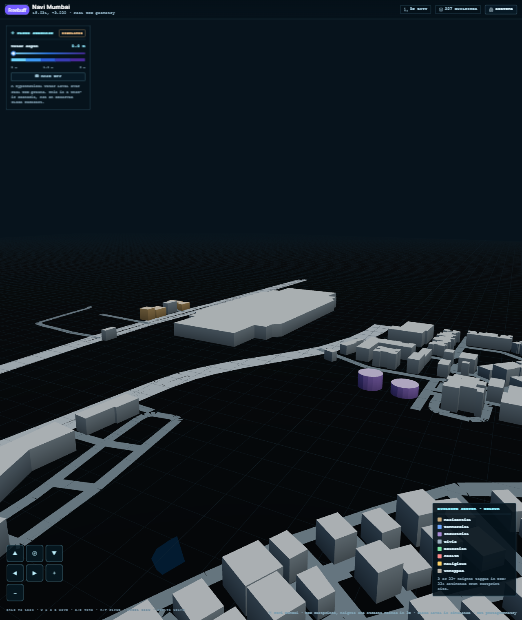
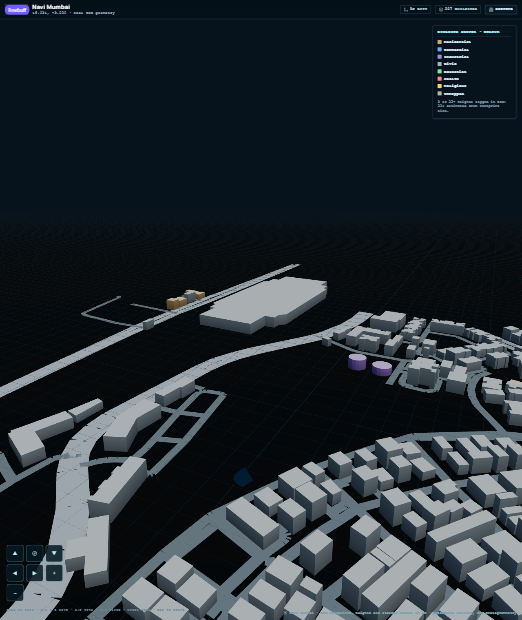
Remove the city flood scenario
The simulated flood depth and rain overlays are gone from the city page, and
its docs and savings shot are updated to match.

🤖 Generated with Codebuff

Changed region(s): [[0.0, 0.429, 1.0, 1.0], [0.0, 0.0306, 0.1839, 0.1839], [0.8276, 0.0613, 0.9502, 0.1839]]

diff --git a/frontend/src/CityScene.tsx b/frontend/src/CityScene.tsx
@@ -1,17 +1,15 @@
 import { useEffect, useRef } from 'react'
 import * as THREE from 'three'
 import type { CityModel } from './citymodel'
-import { SECTOR_COLOURS, floodColour, hashUnit, taggedHeight } from './citymodel'
+import { SECTOR_COLOURS, hashUnit, taggedHeight } from './citymodel'
 
 export type CityControls = { forward: number; strafe: number; turn: number; lift: number }
-export type CityEnv = { depth: number; rain: boolean }
 
 export type BuildingInfo = { name: string | null; height: number; estimated: boolean; sector: string }
 
 type Props = {
   model: CityModel
   controls: React.RefObject<CityControls>
-  env: React.RefObject<CityEnv>
   onReady: () => void
   onPick: (info: BuildingInfo | null, x: number, y: number) => void
 }
@@ -34,7 +32,7 @@ type Meta = BuildingInfo
  * roofs, street ribbons, water and a ground plane. No map tiles are involved,
  * so the satellite view can be hidden once this is ready.
  */
-export default function CityScene({ model, controls, env, onReady, onPick }: Props) {
+export default function CityScene({ model, controls, onReady, onPick }: Props) {
   const host = useRef<HTMLDivElement | null>(null)
   const pickRef = useRef(onPick)
   pickRef.current = onPick
@@ -222,40 +220,6 @@ export default function CityScene({ model, controls, env, onReady, onPick }: Pro
     grid.material.transparent = true
     scene.add(grid)
 
-    // Flood scenario water: a translucent sheet the whole city sits in, the
-    // depth ramp borrowed from Augma's flood maps. This is a scenario level,
-    // never a measured water height.
-    const floodMaterial = new THREE.MeshStandardMaterial({
-      color: floodColour(0.3),
-      transparent: true,
-      opacity: 0.52,
-      roughness: 0.12,
-      metalness: 0.25,
-      side: THREE.DoubleSide,
-    })
-    const flood = new THREE.Mesh(new THREE.PlaneGeometry(4200, 4200), floodMaterial)
-    flood.rotation.x = -Math.PI / 2
-    flood.position.y = -2
-    flood.visible = false
-    scene.add(flood)
-
-    // Rain: a point cloud that follows the camera, wrapping inside a 300 m box.
-    const RAIN_COUNT = 2400
-    const RAIN_BOX = 300
-    const rainPositions = new Float32Array(RAIN_COUNT * 3)
-    for (let index = 0; index < RAIN_COUNT; index += 1) {
-      rainPositions[index * 3] = (Math.random() - 0.5) * RAIN_BOX * 2
-      rainPositions[index * 3 + 1] = Math.random() * 260
-      rainPositions[index * 3 + 2] = (Math.random() - 0.5) * RAIN_BOX * 2
-    }
-    const rainGeometry = new THREE.BufferGeometry()
-    rainGeometry.setAttribute('position', new THREE.BufferAttribute(rainPositions, 3))
-    const rainMaterial = new THREE.PointsMaterial({
-      color: '#bfe9ff', size: 1.8, sizeAttenuation: false, transparent: true, opacity: 0.45,
-    })
-    const rain = new THREE.Points(rainGeometry, rainMaterial)
-    rain.visible = false
-    scene.add(rain)
 
     // --- free-fly camera --------------------------------------------------
     let yaw = Math.PI * 0.12
@@ -363,28 +327,6 @@ export default function CityScene({ model, controls, env, onReady, onPick }: Pro
       }
       if (state.lift) eye.y = Math.max(4, eye.y + state.lift * 55 * delta)
       applyCamera()
-
-      const weather = env.current ?? { depth: 0, rain: false }
-      flood.visible = weather.depth > 0.02
-      if (flood.visible) {
-        flood.position.y = weather.depth
-        floodMaterial.color.set(floodColour(weather.depth))
-      }
-      rain.visible = weather.rain
-      if (weather.rain) {
-        const attribute = rainGeometry.getAttribute('position') as THREE.BufferAttribute
-        const array = attribute.array as Float32Array
-        for (let index = 0; index < RAIN_COUNT; index += 1) {
-          array[index * 3 + 1] -= 95 * delta
-          if (array[index * 3 + 1] < weather.depth) {
-            array[index * 3] = (Math.random() - 0.5) * RAIN_BOX * 2
-            array[index * 3 + 1] = 200 + Math.random() * 70
-            array[index * 3 + 2] = (Math.random() - 0.5) * RAIN_BOX * 2
-          }
-        }
-        attribute.needsUpdate = true
-        rain.position.set(eye.x, 0, eye.z)
-      }
       renderer.render(scene, camera)
       if (!announced) {
         announced = true
@@ -403,10 +345,6 @@ export default function CityScene({ model, controls, env, onReady, onPick }: Pro
       canvas.removeEventListener('click', onClick)
       geometry.dispose()
       material.dispose()
-      flood.geometry.dispose()
-      floodMaterial.dispose()
-      rainGeometry.dispose()
-      rainMaterial.dispose()
       ground.geometry.dispose()
       ground.material.dispose()
       grid.geometry.dispose()
@@ -415,7 +353,7 @@ export default function CityScene({ model, controls, env, onReady, onPick }: Pro
       if (canvas.parentElement === element) element.removeChild(canvas)
     }
     // eslint-disable-next-line react-hooks/exhaustive-deps
-  }, [model, controls, env])
+  }, [model, controls])
 
   return <div className="city-scene" ref={host} />
 }

diff --git a/frontend/src/CityView.tsx b/frontend/src/CityView.tsx
@@ -2,8 +2,8 @@ import { useCallback, useEffect, useRef, useState } from 'react'
 import * as maplibregl from 'maplibre-gl'
 import type { Map as MapLibreMap, StyleSpecification } from 'maplibre-gl'
 import { ArrowLeft, Building2, Compass, Layers3, MapPin, Move3d } from 'lucide-react'
-import CityScene, { type BuildingInfo, type CityControls, type CityEnv } from './CityScene'
-import { fetchCityModel, floodColour, taggedHeight, type CityModel } from './citymodel'
+import CityScene, { type BuildingInfo, type CityControls } from './CityScene'
+import { fetchCityModel, taggedHeight, type CityModel } from './citymodel'
 
 export type CityTarget = { name: string; lat: number; lng: number; kind?: string }
 
@@ -43,9 +43,6 @@ export default function CityView({ city, onClose }: { city: CityTarget; onClose:
   const container = useRef<HTMLDivElement | null>(null)
   const mapRef = useRef<MapLibreMap | null>(null)
   const pad = useRef<CityControls>({ forward: 0, strafe: 0, turn: 0, lift: 0 })
-  const env = useRef<CityEnv>({ depth: 0, rain: false })
-  const [depth, setDepth] = useState(0)
-  const [rain, setRain] = useState(false)
   const [model, setModel] = useState<CityModel | null>(null)
   const [error, setError] = useState<string | null>(null)
   const [attempt, setAttempt] = useState(0)
@@ -122,10 +119,6 @@ export default function CityView({ city, onClose }: { city: CityTarget; onClose:
     }
   }, [onClose])
 
-  useEffect(() => {
-    env.current = { depth, rain }
-  }, [depth, rain])
-
   const handleReady = useCallback(() => {
     setBuilt(true)
     // The 3D city is drawn from OSM geometry, so the basemap has nothing left to show.
@@ -149,7 +142,6 @@ export default function CityView({ city, onClose }: { city: CityTarget; onClose:
         <CityScene
           model={model}
           controls={pad}
-          env={env}
           onReady={handleReady}
           onPick={(info, x, y) => setInspect({ info, x, y })}
         />
@@ -202,42 +194,6 @@ export default function CityView({ city, onClose }: { city: CityTarget; onClose:
         </aside>
       )}
 
-      {built && (
-        <aside className="flood-panel">
-          <div className="flood-head">
-            <span>◈ FLOOD SCENARIO</span>
-            <small>SIMULATED</small>
-          </div>
-          <label className="flood-depth">
-            <span>Water depth</span>
-            <b style={{ color: floodColour(depth) }}>{depth.toFixed(1)} m</b>
-            <input
-              type="range"
-              min={0}
-              max={3}
-              step={0.1}
-              value={depth}
-              onChange={(event) => setDepth(Number(event.target.value))}
-              aria-label="Simulated flood depth in metres"
-            />
-          </label>
-          <div className="flood-ramp" aria-hidden>
-            <i style={{ background: floodColour(0.15) }} />
-            <i style={{ background: floodColour(0.6) }} />
-            <i style={{ background: floodColour(1.2) }} />
-            <i style={{ background: floodColour(2.2) }} />
-            <i style={{ background: floodColour(3) }} />
-          </div>
-          <div className="flood-scale"><span>0 m</span><span>1.5 m</span><span>3 m</span></div>
-          <button className={`flood-rain ${rain ? 'active' : ''}`} onClick={() => setRain(!rain)}>
-            ◍ RAIN {rain ? 'ON' : 'OFF'}
-          </button>
-          <small className="flood-note">
-            A hypothetical water level over real OSM ground. This is a what-if scenario, not an observed flood forecast.
-          </small>
-        </aside>
-      )}
-
       <div className="move-pad" aria-label="Movement pad">
         <button {...hold('forward', 1)} title="Forward">▲</button>
         <button {...hold('turn', -1)} title="Turn left"><Compass size={12} /></button>
@@ -271,7 +227,7 @@ export default function CityView({ city, onClose }: { city: CityTarget; onClose:
       )}
 
       <div className="city-foot">
-        <MapPin size={10} /> {city.name} · OSM footprints, heights and streets meshed in 3D · flood level is simulated · not photogrammetry
+        <MapPin size={10} /> {city.name} · OSM footprints, heights and streets meshed in 3D · procedural massing, not photogrammetry
       </div>
     </div>
   )

diff --git a/frontend/src/styles.css b/frontend/src/styles.css
@@ -896,77 +896,3 @@ a { color: inherit; text-decoration: none; }
 .city-view .move-hint,
 .city-view .city-legend,
 .city-view .city-bar { z-index: 5; }
-
-/* ---- Augma-style flood scenario panel ---- */
-.flood-panel {
-  position: absolute;
-  top: 62px;
-  left: 14px;
-  z-index: 5;
-  display: flex;
-  flex-direction: column;
-  gap: 8px;
-  width: 208px;
-  padding: 10px 12px;
-  border: 1px solid rgba(120, 200, 240, 0.3);
-  border-radius: 4px;
-  background: rgba(5, 19, 28, 0.92);
-  color: #cfe9f3;
-  font: 500 10px/1.4 ui-monospace, monospace;
-  backdrop-filter: blur(3px);
-}
-.flood-head {
-  display: flex;
-  align-items: center;
-  justify-content: space-between;
-  color: #8ff0ff;
-  font-size: 9px;
-  letter-spacing: 0.1em;
-  padding-bottom: 6px;
-  border-bottom: 1px solid rgba(120, 200, 240, 0.2);
-}
-.flood-head small {
-  padding: 2px 5px;
-  border: 1px solid rgba(255, 190, 120, 0.55);
-  border-radius: 2px;
-  color: #ffc98a;
-  font-size: 8px;
-  letter-spacing: 0.12em;
-}
-.flood-depth { display: grid; grid-template-columns: 1fr auto; align-items: center; gap: 4px 8px; }
-.flood-depth b { font-size: 11px; }
-.flood-depth input[type='range'] {
-  grid-column: 1 / -1;
-  width: 100%;
-  height: 4px;
-  margin: 4px 0 2px;
-  border-radius: 2px;
-  background: linear-gradient(90deg, #8fe9ff, #2f7df0, #4a2a9e);
-  appearance: none;
-  cursor: pointer;
-}
-.flood-depth input[type='range']::-webkit-slider-thumb {
-  appearance: none;
-  width: 12px;
-  height: 12px;
-  border-radius: 50%;
-  background: #eaf9ff;
-  border: 2px solid #2f7df0;
-  cursor: pointer;
-}
-.flood-ramp { display: flex; height: 8px; border-radius: 2px; overflow: hidden; }
-.flood-ramp i { flex: 1; }
-.flood-scale { display: flex; justify-content: space-between; color: #6f8b9c; font-size: 8px; }
-.flood-rain {
-  padding: 5px 8px;
-  border: 1px solid rgba(143, 227, 255, 0.35);
-  border-radius: 3px;
-  background: rgba(8, 26, 38, 0.9);
-  color: #9fc6d8;
-  font: 700 9px/1 ui-monospace, monospace;
-  letter-spacing: 0.1em;
-  cursor: pointer;
-}
-.flood-rain.active { border-color: rgba(143, 227, 255, 0.8); color: #eaf9ff; background: rgba(30, 86, 112, 0.85); }
-.flood-note { color: #6f8b9c; font-size: 9px; line-height: 1.45; }
-.city-view .city-legend { top: auto; bottom: 58px; }

diff --git a/frontend/src/citymodel.ts b/frontend/src/citymodel.ts
@@ -64,28 +64,6 @@ export function hashUnit(seed: string): number {
   return ((hash >>> 0) % 1000) / 1000
 }
 
-/** Depth ramp for the flood scenario, shallow cyan to deep indigo (metres). */
-export function floodColour(depth: number): string {
-  const stops: [number, string][] = [
-    [0, '#8fe9ff'], [0.3, '#4fc3ff'], [0.8, '#2f7df0'], [1.5, '#2a49c9'], [3, '#4a2a9e'],
-  ]
-  if (depth <= 0) return stops[0][1]
-  for (let index = 1; index < stops.length; index += 1) {
-    if (depth <= stops[index][0]) {
-      const [a, colourA] = stops[index - 1]
-      const [b, colourB] = stops[index]
-      const t = (depth - a) / (b - a)
-      const mix = (offset: number) => {
-        const ca = parseInt(colourA.slice(1 + offset, 3 + offset), 16)
-        const cb = parseInt(colourB.slice(1 + offset, 3 + offset), 16)
-        return Math.round(ca + (cb - ca) * t).toString(16).padStart(2, '0')
-      }
-      return `#${mix(0)}${mix(2)}${mix(4)}`
-    }
-  }
-  return stops[stops.length - 1][1]
-}
-
 export const SECTOR_COLOURS: Record<string, string> = {
   residential: '#c8a97a', house: '#d9c3a0', apartments: '#c8a97a', terrace: '#d0b183', dormitory: '#c8a97a',
   commercial: '#6fa8ff', office: '#7fb2ff', retail: '#ffb347', shop: '#ffb347', supermarket: '#ffb347',

diff --git a/README.md b/README.md
@@ -127,8 +127,6 @@ Signal record:
 
 **City view.** Clicking a city or town label (`city`/`town` places from the vector tiles) opens a full-screen page that builds that place's centre as a real 3D scene in Three.js, from scratch: every OSM building footprint is extruded to its tagged `height` or `building:levels`, capped with a roof, and painted by building class (residential, commercial, industrial, civic, education, health, religious, unmapped). Streets become road ribbons by class, water polygons are drawn flat, and a metric grid replaces the basemap. The satellite view is shown only while the model loads, then it is removed, so nothing of the 2D map remains behind the 3D city. Drag to look, `W A S D` to move, `Q`/`E` to turn, `R`/`F` to climb, wheel to close in, and the on-screen pad does the same. Clicking a building opens the city scan panel with its name, sector and height, flagging heights that OSM does not tag.
 
-**Flood scenario.** The city page carries a flood slider (0–3 m) that raises a translucent water sheet over the streets, coloured by depth from shallow cyan to deep indigo, plus a rain toggle with falling rain particles. Both are plainly labelled `SIMULATED`: the water level is a what-if scenario over real OSM ground, not an observed or forecast flood.
-
 **Drone camera.** The `DRONE` button drops the camera to ~15.2 zoom at 68° pitch over the focused place and orbits it through a full 360°, pausing while you drag, scroll or zoom and resuming after three seconds. The HUD shows `ALT` (zoom) and `BRG` (bearing) with manual rotate (◀ ▶), climb/descend (▲ ▼) and an ORBIT toggle for hands-on control.
 
 **ASCII projection.** The `ASCII` button renders the current map view as a character grid sampled from the live canvas. Clicking any cell un-projects that pixel to WGS84 coordinates, drops a locator pin, and lists the nearest landmarks and live signals within range.
@@ -208,7 +206,6 @@ Pages cannot execute Python, so a Pages-only deployment shows the UI shell with 
 - The analyst is deterministic and grounded: it composes text from the current snapshot, cites records, and uses no language model.
 - The 3D landmark models are procedural interpretations, not measured or photogrammetric reconstructions.
 - City view footprints, street centrelines and tagged heights are real OSM data. Buildings with no `height`/`building:levels` tag get an estimated height from footprint size, and the city scan panel marks those as estimated.
-- The city flood depth and rain are simulated scenarios, not an observed or forecast flood.
 - Nothing here reconstructs objects photogrammetrically from satellite pixels. Buildings, roads, bridges and dams are vector data (OSM/OpenFreeMap and a curated dam list); anything not in that data is simply absent.
 - There are no interiors beyond the eight procedural landmark models, and no underground pipelines or utility networks — that data is not published openly for India, so none is invented.
 - Bridge deck elevation is a cartographic shadow effect; dam coordinates are rounded to roughly 1 km; dam heights are published maximum structure heights.
